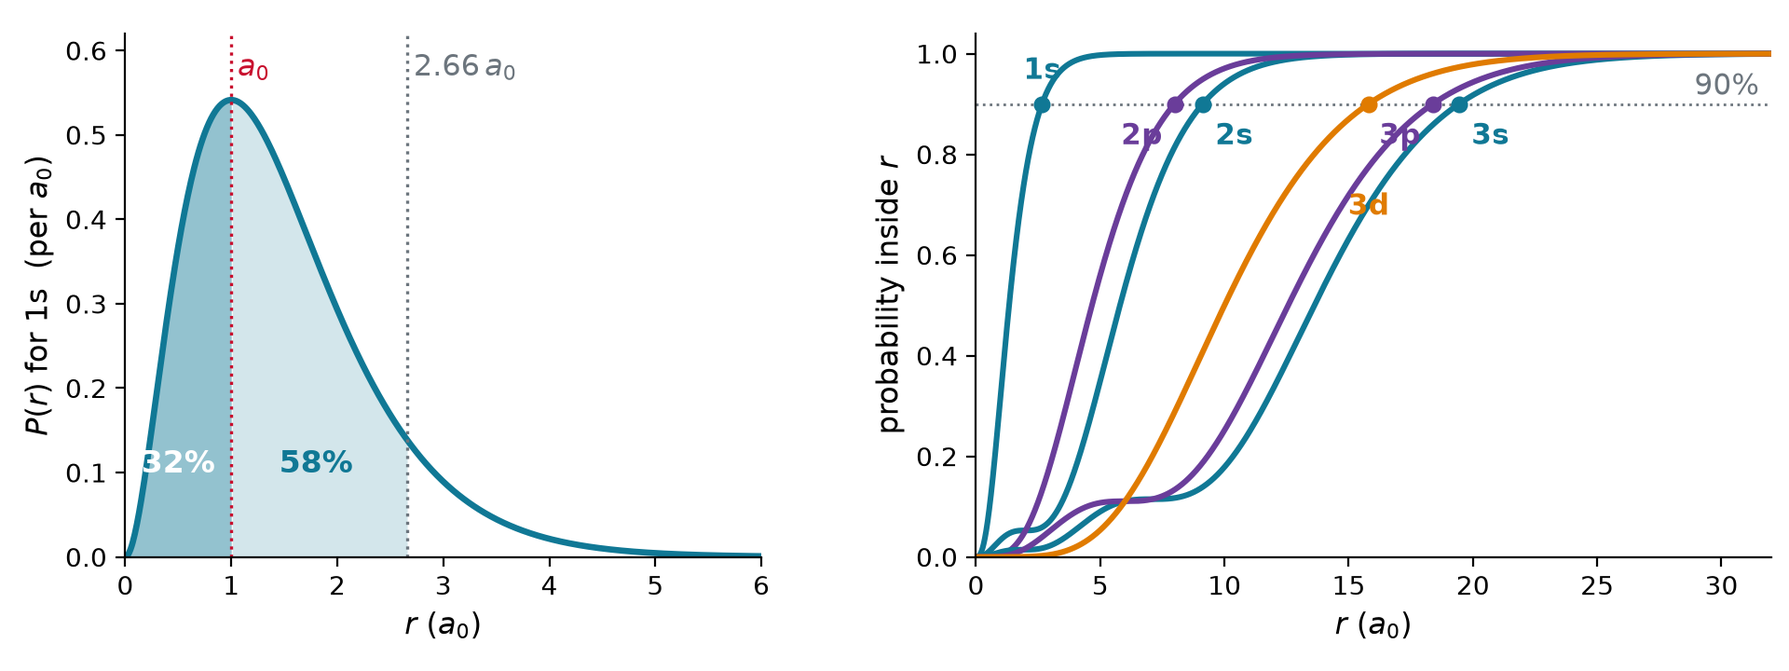
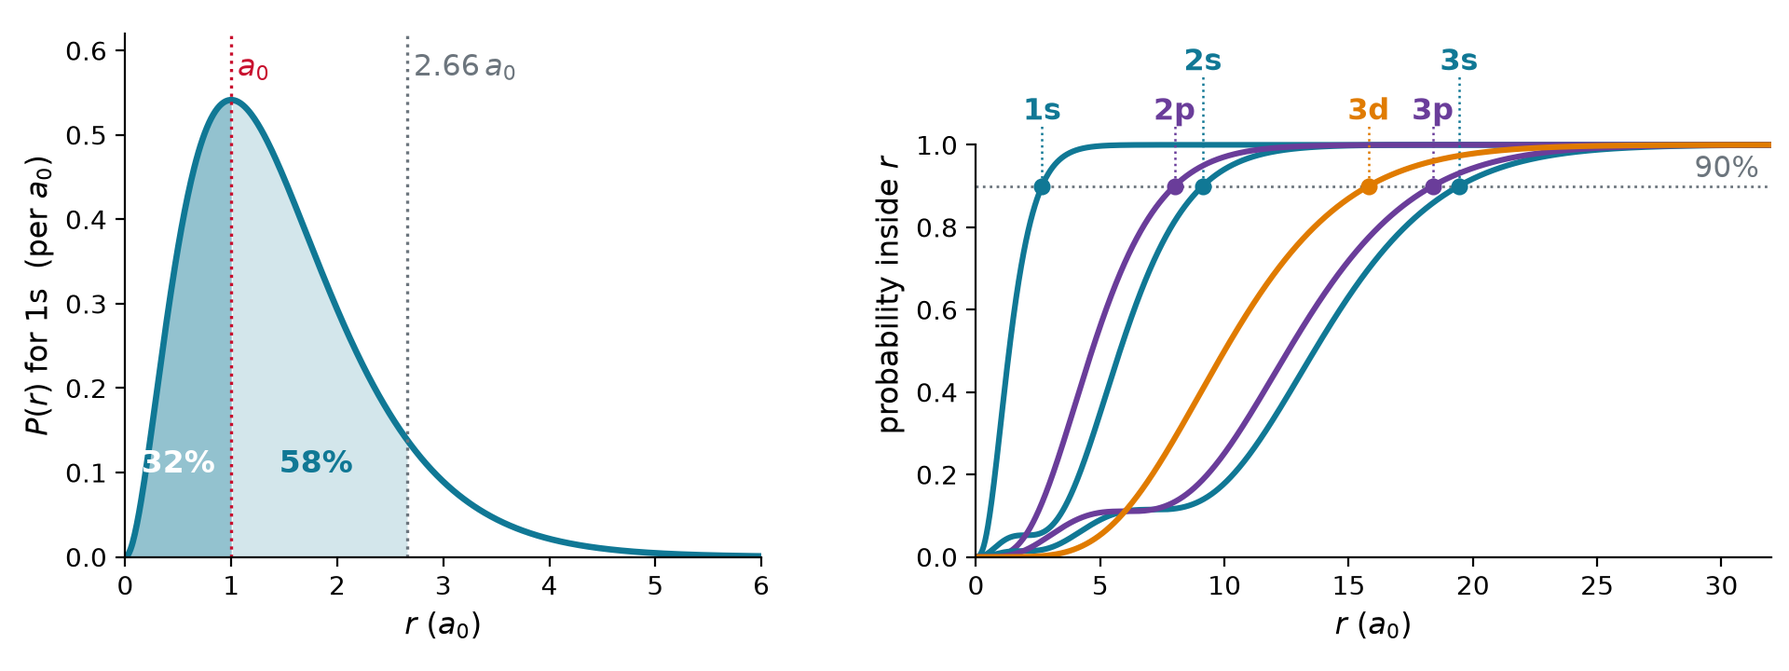
'updated'

diff --git a/scripts/make_ch05_animations.py b/scripts/make_ch05_animations.py
@@ -474,9 +474,66 @@ def shell_volume():
     return fig, None
 
 
-# ------------------------------------------------------------ the radial distributions P(r) = r^2 R^2 for n <= 3, one panel per shell (still)
+# ------------------------------------------------------------ the s states 1s, 2s, 3s on one axis: farther out and one more peak each step (still)
+@register
+def radial_s_series():
+    plt.rcParams.update({"axes.spines.top": False, "axes.spines.right": False})
+    R = {1: lambda p: 2 * np.exp(-p),
+         2: lambda p: (2 - p) * np.exp(-p / 2) / (2 * np.sqrt(2)),
+         3: lambda p: 2 * (27 - 18 * p + 2 * p**2) * np.exp(-p / 3) / (81 * np.sqrt(3))}
+    shades = {1: "#0a4a5c", 2: TEAL, 3: "#63b4c8"}                 # one family (s): three shades of teal
+    fig, ax = plt.subplots(figsize=(9.6, 3.4))
+    r = np.linspace(0, 26, 1300)
+    for n in (1, 2, 3):
+        P = r**2 * R[n](r)**2
+        ax.plot(r, P, color=shades[n], lw=2.6)
+        k = np.argmax(P)
+        ax.text(r[k], P[k] + 0.018, f"{n}s", fontsize=13, color=shades[n], weight="bold", ha="center", va="bottom")
+    ax.set_xlim(0, 26); ax.set_ylim(0, 0.6)
+    ax.set_xlabel(r"$r$ ($a_0$)", fontsize=11.5)
+    ax.set_ylabel(r"$P(r) = r^2R_{n0}^2$  (per $a_0$)", fontsize=11.5)
+    ax.tick_params(labelsize=10)
+    fig.subplots_adjust(left=0.08, right=0.99, top=0.96, bottom=0.18)
+    fig.savefig(f"{OUT}/radial_s_series.png", dpi=200)
+    print("wrote", f"{OUT}/radial_s_series.png")
+    return fig, None
+
+
+# ------------------------------------------------------------ same n, different l: the radial distributions of the n = 2 and n = 3 shells (still)
 @register
 def radial_distributions():
+    plt.rcParams.update({"axes.spines.top": False, "axes.spines.right": False})
+    R = {(2, 0): lambda p: (2 - p) * np.exp(-p / 2) / (2 * np.sqrt(2)),
+         (2, 1): lambda p: p * np.exp(-p / 2) / (2 * np.sqrt(6)),
+         (3, 0): lambda p: 2 * (27 - 18 * p + 2 * p**2) * np.exp(-p / 3) / (81 * np.sqrt(3)),
+         (3, 1): lambda p: 4 * (6 - p) * p * np.exp(-p / 3) / (81 * np.sqrt(6)),
+         (3, 2): lambda p: 4 * p**2 * np.exp(-p / 3) / (81 * np.sqrt(30))}
+    cols = {0: TEAL, 1: PURPLE, 2: ORANGE}
+    fig, axes = plt.subplots(1, 2, figsize=(9.6, 3.4), gridspec_kw={"wspace": 0.18, "width_ratios": [1, 1.3]})
+    for ax, n, xm in zip(axes, (2, 3), (16, 30)):
+        r = np.linspace(0, xm, 600)
+        for l in range(n):
+            ax.plot(r, r**2 * R[(n, l)](r)**2, color=cols[l], lw=2.4, label=f"{n}{'spd'[l]}")
+        ax.axvline(n * n, color=GRAY, lw=1.1, ls=":")
+        ax.text(n * n + 0.02 * xm, 0.22, f"${n * n}a_0$", fontsize=11, color=GRAY)
+        ax.set_xlim(0, xm); ax.set_ylim(0, 0.24)
+        ax.set_xlabel(r"$r$ ($a_0$)", fontsize=11.5)
+        ax.set_title(f"$n = {n}$", fontsize=13)
+        ax.tick_params(labelsize=10)
+        leg = ax.legend(loc="upper right", frameon=False, fontsize=12, handlelength=1.2, borderaxespad=0.2)
+        for t, h in zip(leg.get_texts(), leg.legend_handles):
+            t.set_color(h.get_color()); t.set_weight("bold")
+    axes[0].set_ylabel(r"$P(r) = r^2R_{nl}^2$  (per $a_0$)", fontsize=11.5)
+    axes[1].set_yticklabels([])
+    fig.subplots_adjust(left=0.08, right=0.99, top=0.88, bottom=0.18)
+    fig.savefig(f"{OUT}/radial_distributions.png", dpi=200)
+    print("wrote", f"{OUT}/radial_distributions.png")
+    return fig, None
+
+
+# ------------------------------------------------------------ count the peaks: P(r) for every state with n <= 3, radial nodes as red dots (still)
+@register
+def radial_nodes():
     plt.rcParams.update({"axes.spines.top": False, "axes.spines.right": False})
     R = {(1, 0): lambda p: 2 * np.exp(-p),
          (2, 0): lambda p: (2 - p) * np.exp(-p / 2) / (2 * np.sqrt(2)),
@@ -484,28 +541,27 @@ def radial_distributions():
          (3, 0): lambda p: 2 * (27 - 18 * p + 2 * p**2) * np.exp(-p / 3) / (81 * np.sqrt(3)),
          (3, 1): lambda p: 4 * (6 - p) * p * np.exp(-p / 3) / (81 * np.sqrt(6)),
          (3, 2): lambda p: 4 * p**2 * np.exp(-p / 3) / (81 * np.sqrt(30))}
+    nodes = {(1, 0): [], (2, 0): [2.0], (2, 1): [], (3, 0): [1.902, 7.098], (3, 1): [6.0], (3, 2): []}
     cols = {0: TEAL, 1: PURPLE, 2: ORANGE}
-    fig, axes = plt.subplots(1, 3, figsize=(9.6, 3.3), gridspec_kw={"wspace": 0.28, "width_ratios": [0.8, 1, 1.2]})
-    for ax, n, xm in zip(axes, (1, 2, 3), (6, 16, 30)):
+    fig, axes = plt.subplots(2, 3, figsize=(9.6, 4.3), gridspec_kw={"hspace": 0.55, "wspace": 0.12})
+    for ax, key in zip(axes.flat, [(1, 0), (2, 0), (2, 1), (3, 0), (3, 1), (3, 2)]):
+        n, l = key
+        xm = {1: 6, 2: 16, 3: 30}[n]
         r = np.linspace(0, xm, 600)
-        for l in range(n):
-            P = r**2 * R[(n, l)](r)**2
-            ax.plot(r, P, color=cols[l], lw=2.4, label=f"{n}{'spd'[l]}")
-        ax.axvline(n * n, color=GRAY, lw=1.1, ls=":")
-        ax.text(n * n + 0.02 * xm, 0.56, f"${n * n if n > 1 else ''}a_0$", fontsize=11, color=GRAY)
-        leg = ax.legend(loc="upper right", frameon=False, fontsize=12, handlelength=1.2, borderaxespad=0.2)
-        for t, h in zip(leg.get_texts(), leg.legend_handles):
-            t.set_color(h.get_color()); t.set_weight("bold")
-        ax.set_xlim(0, xm); ax.set_ylim(0, 0.6)
+        P = r**2 * R[key](r)**2
+        ax.plot(r, P, color=cols[l], lw=2.4)
+        ax.fill_between(r, P, color=cols[l], alpha=0.12, lw=0)
+        ax.plot(nodes[key], [0] * len(nodes[key]), "o", color=CARDINAL, ms=7.5, zorder=5, clip_on=False)
+        ax.set_xlim(0, xm); ax.set_ylim(0, 1.15 * P.max())
+        ax.set_yticks([]); ax.tick_params(labelsize=10)
+        ax.set_title(f"{n}{'spd'[l]}", fontsize=13.5, color=cols[l], weight="bold")
+    for ax in axes[1]:
         ax.set_xlabel(r"$r$ ($a_0$)", fontsize=11.5)
-        ax.set_title(f"$n = {n}$", fontsize=13)
-        ax.tick_params(labelsize=10)
-    axes[0].set_ylabel(r"$P(r) = r^2R_{nl}^2$  (per $a_0$)", fontsize=11.5)
-    for ax in axes[1:]:
-        ax.set_yticklabels([])
-    fig.subplots_adjust(left=0.08, right=0.99, top=0.88, bottom=0.18)
-    fig.savefig(f"{OUT}/radial_distributions.png", dpi=200)
-    print("wrote", f"{OUT}/radial_distributions.png")
+    for ax in axes[:, 0]:
+        ax.set_ylabel(r"$P(r)$", fontsize=11.5)
+    fig.subplots_adjust(left=0.05, right=0.99, top=0.92, bottom=0.13)
+    fig.savefig(f"{OUT}/radial_nodes.png", dpi=200)
+    print("wrote", f"{OUT}/radial_nodes.png")
     return fig, None
 
 
@@ -541,12 +597,13 @@ def probability_inside():
         bx.plot(rr, c, color=cols[l], lw=2.2, ls={1: "-", 2: "-", 3: "-"}[n])
         k = np.searchsorted(c, 0.9)
         bx.plot(rr[k], 0.9, "o", color=cols[l], ms=5.5, zorder=5)
-        dx_, dy_, ha_ = {(1, 0): (0.0, 0.95, "center"), (2, 1): (-0.5, 0.82, "right"), (2, 0): (0.5, 0.82, "left"),
-                         (3, 2): (0.0, 0.68, "center"), (3, 1): (-0.5, 0.82, "right"), (3, 0): (0.5, 0.82, "left")}[(n, l)]
-        bx.text(rr[k] + dx_, dy_, f"{n}{'spd'[l]}", fontsize=11, color=cols[l], weight="bold", ha=ha_)
+        yl = 1.2 if l == 0 and n > 1 else 1.08                      # labels above the curves, in two rows
+        bx.plot([rr[k], rr[k]], [0.92, yl - 0.03], color=cols[l], lw=0.9, ls=":")
+        bx.text(rr[k], yl, f"{n}{'spd'[l]}", fontsize=11.5, color=cols[l], weight="bold", ha="center", va="center")
     bx.axhline(0.9, color=GRAY, lw=1, ls=":")
     bx.text(31.5, 0.905, "90%", ha="right", va="bottom", fontsize=11, color=GRAY)
-    bx.set_xlim(0, 32); bx.set_ylim(0, 1.04)
+    bx.set_xlim(0, 32); bx.set_ylim(0, 1.27); bx.set_yticks([0, 0.2, 0.4, 0.6, 0.8, 1.0])
+    bx.spines["left"].set_bounds(0, 1.0)
     bx.set_xlabel(r"$r$ ($a_0$)", fontsize=11.5); bx.set_ylabel("probability inside $r$", fontsize=11.5)
     bx.tick_params(labelsize=10)
     fig.subplots_adjust(left=0.07, right=0.99, top=0.95, bottom=0.17)

diff --git a/ch05/02-atomic-orbitals.md b/ch05/02-atomic-orbitals.md
@@ -11,7 +11,7 @@ kernelspec:
 - An **atomic orbital** is one stationary state of a one-electron atom, $\psi_{nlm} = R_{nl}(r)\,Y_l^m(\theta, \phi)$, named by $n$ and the letter of $l$: 1s, 2p, 3d. [Lecture 5.1](01-hydrogenlike-atoms.md) solved for them. This lecture draws them, and learns to read the drawings.
 - "Where is the electron?" has three answers. $\lvert\psi\rvert^2\,dV$ is the probability of finding it in a small volume; the **radial distribution** $P(r) = r^2R_{nl}^2$ is the probability per unit length of finding it at distance $r$, at any angle (the $r^2$ is the area of the shell); $\lvert Y_l^m\rvert^2$ is the probability per unit solid angle of finding it in a direction. The 1s density is largest at the nucleus, but $P(r)$ peaks at $a_0$: the **most probable distance**. The average distance is $\tfrac{3}{2}a_0$, and 90% of the electron lies inside $2.66\,a_0$.
 - Sizes grow as $n^2a_0/Z$. For $l = n - 1$ the most probable distance is exactly Bohr's $n^2a_0/Z$; s states keep small inner lobes close to the nucleus, which is why 2s lies below 2p once there are other electrons ([Chapter 7](../ch07/02-multi-electron-atoms.md)).
-- The $Y_l^m$ with $m \neq 0$ are complex and their densities are rings around $z$. Because the $2l + 1$ states of one $n$ and $l$ have the same energy, any combination of them is again a stationary state, and the combinations $(Y_l^{-m} \mp Y_l^{m})/\sqrt{2}$ are **real orbitals** that point along axes: $p_x$, $p_y$, $p_z$ and the five $d$. They keep $E$ and $L^2$ but have no definite $L_z$.
+- The $Y_l^m$ with $m \neq 0$ are complex and their densities are rings around $z$. Because the $2l + 1$ states of one $n$ and $l$ have the same energy, any combination of them is again a stationary state, and the combinations $(Y_l^{-m} \mp Y_l^{m})/\sqrt{2}$ are **real orbitals** that point along axes: $p_x$, $p_y$, $p_z$ and the five $d$. They keep $E$ and $L^2$; $p_x$ has no definite $L_z$ but is the $m = 0$ state about the $x$ axis. Which set an atom is in depends on what picks a direction: a field along $z$ selects the $m$ states, a bond along $x$ selects $p_x$.
 - **Nodes:** $n - l - 1$ radial nodes (spheres) plus $l$ angular nodes (planes or cones), $n - 1$ in all. A **boundary surface** encloses 90% of the probability; it is what the textbook drawings show.
 
 :::
@@ -132,11 +132,96 @@ $$
 The average lies beyond the peak, as it does for every lopsided distribution. Three different lengths describe one state: the most probable distance $a_0$, the average $1.5\,a_0$, and the radius inside which 90% of the probability lies, $2.66\,a_0$ (solve $P(r < x) = 0.9$ numerically).
 :::
 
-#### Radial distributions for $n \leq 3$
+#### The s states: farther out, one more peak
+
+Fix $l = 0$ and raise $n$:
+
+```{code-cell} python
+:tags: [hide-input]
+# synced: radial_s_series
+import numpy as np
+import matplotlib.pyplot as plt
+from matplotlib.animation import FuncAnimation
+from IPython.display import HTML
+
+TEAL, CARDINAL, GRAY, PURPLE, ORANGE = "#107895", "#C8102E", "#6c757d", "#6a3d9a", "#e07b00"
+plt.rcParams.update({"axes.spines.top": False, "axes.spines.right": False})
+R = {1: lambda p: 2 * np.exp(-p),
+     2: lambda p: (2 - p) * np.exp(-p / 2) / (2 * np.sqrt(2)),
+     3: lambda p: 2 * (27 - 18 * p + 2 * p**2) * np.exp(-p / 3) / (81 * np.sqrt(3))}
+shades = {1: "#0a4a5c", 2: TEAL, 3: "#63b4c8"}                 # one family (s): three shades of teal
+fig, ax = plt.subplots(figsize=(9.6, 3.4))
+r = np.linspace(0, 26, 1300)
+for n in (1, 2, 3):
+    P = r**2 * R[n](r)**2
+    ax.plot(r, P, color=shades[n], lw=2.6)
+    k = np.argmax(P)
+    ax.text(r[k], P[k] + 0.018, f"{n}s", fontsize=13, color=shades[n], weight="bold", ha="center", va="bottom")
+ax.set_xlim(0, 26); ax.set_ylim(0, 0.6)
+ax.set_xlabel(r"$r$ ($a_0$)", fontsize=11.5)
+ax.set_ylabel(r"$P(r) = r^2R_{n0}^2$  (per $a_0$)", fontsize=11.5)
+ax.tick_params(labelsize=10)
+fig.subplots_adjust(left=0.08, right=0.99, top=0.96, bottom=0.18)
+plt.show()
+```
+
+Fig. The radial distributions of 1s, 2s and 3s on one axis.
+
+- **Farther out.** Each step in $n$ pushes the outer peak out: the maxima sit at $1$, $5.2$ and $13\,a_0$, close to $n^2a_0$.
+- **One more peak.** 1s has one maximum, 2s two, 3s three. Between the peaks $P(r) = 0$: a radial node of $R_{nl}$, as in Lecture 5.1.
+- **The outermost peak carries most of the probability.** The inner peaks are small, but they lie close to the nucleus.
+
+#### Same $n$, different $l$
+
+Now fix $n$ and raise $l$:
 
 ```{code-cell} python
 :tags: [hide-input]
 # synced: radial_distributions
+import numpy as np
+import matplotlib.pyplot as plt
+from matplotlib.animation import FuncAnimation
+from IPython.display import HTML
+
+TEAL, CARDINAL, GRAY, PURPLE, ORANGE = "#107895", "#C8102E", "#6c757d", "#6a3d9a", "#e07b00"
+plt.rcParams.update({"axes.spines.top": False, "axes.spines.right": False})
+R = {(2, 0): lambda p: (2 - p) * np.exp(-p / 2) / (2 * np.sqrt(2)),
+     (2, 1): lambda p: p * np.exp(-p / 2) / (2 * np.sqrt(6)),
+     (3, 0): lambda p: 2 * (27 - 18 * p + 2 * p**2) * np.exp(-p / 3) / (81 * np.sqrt(3)),
+     (3, 1): lambda p: 4 * (6 - p) * p * np.exp(-p / 3) / (81 * np.sqrt(6)),
+     (3, 2): lambda p: 4 * p**2 * np.exp(-p / 3) / (81 * np.sqrt(30))}
+cols = {0: TEAL, 1: PURPLE, 2: ORANGE}
+fig, axes = plt.subplots(1, 2, figsize=(9.6, 3.4), gridspec_kw={"wspace": 0.18, "width_ratios": [1, 1.3]})
+for ax, n, xm in zip(axes, (2, 3), (16, 30)):
+    r = np.linspace(0, xm, 600)
+    for l in range(n):
+        ax.plot(r, r**2 * R[(n, l)](r)**2, color=cols[l], lw=2.4, label=f"{n}{'spd'[l]}")
+    ax.axvline(n * n, color=GRAY, lw=1.1, ls=":")
+    ax.text(n * n + 0.02 * xm, 0.22, f"${n * n}a_0$", fontsize=11, color=GRAY)
+    ax.set_xlim(0, xm); ax.set_ylim(0, 0.24)
+    ax.set_xlabel(r"$r$ ($a_0$)", fontsize=11.5)
+    ax.set_title(f"$n = {n}$", fontsize=13)
+    ax.tick_params(labelsize=10)
+    leg = ax.legend(loc="upper right", frameon=False, fontsize=12, handlelength=1.2, borderaxespad=0.2)
+    for t, h in zip(leg.get_texts(), leg.legend_handles):
+        t.set_color(h.get_color()); t.set_weight("bold")
+axes[0].set_ylabel(r"$P(r) = r^2R_{nl}^2$  (per $a_0$)", fontsize=11.5)
+axes[1].set_yticklabels([])
+fig.subplots_adjust(left=0.08, right=0.99, top=0.88, bottom=0.18)
+plt.show()
+```
+
+Fig. The radial distributions of the $n = 2$ and $n = 3$ shells. The dotted line marks Bohr's radius $n^2a_0$.
+
+- **Raising $l$ removes the inner peaks.** At $n = 3$: 3s has three maxima, 3p two, 3d one.
+- **$l = n - 1$ is a single peak at Bohr's radius.** $P \propto r^{2n}e^{-2Zr/na_0}$ peaks at $r = n^2a_0/Z$: $4a_0$ for 2p, $9a_0$ for 3d (Problem 1).
+- **The s state penetrates.** Its innermost peak lies closest to the nucleus. In hydrogen that changes no energy, since every state of one $n$ shares $E_n$. In every other atom the inner electrons screen the nucleus, a penetrating 2s electron feels more nuclear charge than 2p, and 2s drops below 2p: the aufbau order of [Chapter 7](../ch07/02-multi-electron-atoms.md).
+
+#### Count the peaks: the radial nodes
+
+```{code-cell} python
+:tags: [hide-input]
+# synced: radial_nodes
 import numpy as np
 import matplotlib.pyplot as plt
 from matplotlib.animation import FuncAnimation
@@ -150,35 +235,39 @@ R = {(1, 0): lambda p: 2 * np.exp(-p),
      (3, 0): lambda p: 2 * (27 - 18 * p + 2 * p**2) * np.exp(-p / 3) / (81 * np.sqrt(3)),
      (3, 1): lambda p: 4 * (6 - p) * p * np.exp(-p / 3) / (81 * np.sqrt(6)),
      (3, 2): lambda p: 4 * p**2 * np.exp(-p / 3) / (81 * np.sqrt(30))}
+nodes = {(1, 0): [], (2, 0): [2.0], (2, 1): [], (3, 0): [1.902, 7.098], (3, 1): [6.0], (3, 2): []}
 cols = {0: TEAL, 1: PURPLE, 2: ORANGE}
-fig, axes = plt.subplots(1, 3, figsize=(9.6, 3.3), gridspec_kw={"wspace": 0.28, "width_ratios": [0.8, 1, 1.2]})
-for ax, n, xm in zip(axes, (1, 2, 3), (6, 16, 30)):
+fig, axes = plt.subplots(2, 3, figsize=(9.6, 4.3), gridspec_kw={"hspace": 0.55, "wspace": 0.12})
+for ax, key in zip(axes.flat, [(1, 0), (2, 0), (2, 1), (3, 0), (3, 1), (3, 2)]):
+    n, l = key
+    xm = {1: 6, 2: 16, 3: 30}[n]
     r = np.linspace(0, xm, 600)
-    for l in range(n):
-        P = r**2 * R[(n, l)](r)**2
-        ax.plot(r, P, color=cols[l], lw=2.4, label=f"{n}{'spd'[l]}")
-    ax.axvline(n * n, color=GRAY, lw=1.1, ls=":")
-    ax.text(n * n + 0.02 * xm, 0.56, f"${n * n if n > 1 else ''}a_0$", fontsize=11, color=GRAY)
-    leg = ax.legend(loc="upper right", frameon=False, fontsize=12, handlelength=1.2, borderaxespad=0.2)
-    for t, h in zip(leg.get_texts(), leg.legend_handles):
-        t.set_color(h.get_color()); t.set_weight("bold")
-    ax.set_xlim(0, xm); ax.set_ylim(0, 0.6)
+    P = r**2 * R[key](r)**2
+    ax.plot(r, P, color=cols[l], lw=2.4)
+    ax.fill_between(r, P, color=cols[l], alpha=0.12, lw=0)
+    ax.plot(nodes[key], [0] * len(nodes[key]), "o", color=CARDINAL, ms=7.5, zorder=5, clip_on=False)
+    ax.set_xlim(0, xm); ax.set_ylim(0, 1.15 * P.max())
+    ax.set_yticks([]); ax.tick_params(labelsize=10)
+    ax.set_title(f"{n}{'spd'[l]}", fontsize=13.5, color=cols[l], weight="bold")
+for ax in axes[1]:
     ax.set_xlabel(r"$r$ ($a_0$)", fontsize=11.5)
-    ax.set_title(f"$n = {n}$", fontsize=13)
-    ax.tick_params(labelsize=10)
-axes[0].set_ylabel(r"$P(r) = r^2R_{nl}^2$  (per $a_0$)", fontsize=11.5)
-for ax in axes[1:]:
-    ax.set_yticklabels([])
-fig.subplots_adjust(left=0.08, right=0.99, top=0.88, bottom=0.18)
+for ax in axes[:, 0]:
+    ax.set_ylabel(r"$P(r)$", fontsize=11.5)
+fig.subplots_adjust(left=0.05, right=0.99, top=0.92, bottom=0.13)
 plt.show()
 ```
 
-Fig. The radial distributions $P(r) = r^2R_{nl}^2$ for $n = 1$, 2 and 3, each shell on its own range of $r$. The dotted line marks $n^2a_0$, Bohr's radius for orbit $n$.
+Fig. $P(r)$ for every state with $n \leq 3$. A red dot marks each radial node, a distance at which $P(r) = 0$.
 
-- **One hump for $l = n - 1$, at Bohr's radius.** For 1s, 2p and 3d the polynomial is a single power, $P \propto r^{2n}e^{-2Zr/na_0}$, and $dP/dr = 0$ gives $r = n^2a_0/Z$: the radii of Bohr's orbits, $a_0$, $4a_0$, $9a_0$, reappear as most probable distances (Problem 1).
-- **More humps for smaller $l$.** $R_{nl}$ has $n - l - 1$ nodes, so $P(r)$ has $n - l$ humps, and the outermost always carries most of the probability. The inner humps of 2s and 3s sit close to the nucleus: an s electron **penetrates** to small $r$ where a p or d electron of the same $n$ does not. In hydrogen that changes nothing, since all states of one $n$ share one energy. In every other atom the inner electrons screen the nucleus, penetration lets 2s feel more of the nuclear charge than 2p, and 2s drops below 2p: the origin of the aufbau order of [Chapter 7](../ch07/02-multi-electron-atoms.md).
-- **The average distance** is the formula of the radial averages dropdown of Lecture 5.1, $\langle r\rangle_{nl} = \dfrac{n^2a_0}{Z}\left[1 + \dfrac{1}{2}\left(1 - \dfrac{l(l+1)}{n^2}\right)\right]$: $1.5\,a_0$ for 1s, $6\,a_0$ for 2s, $5\,a_0$ for 2p. For a given $n$ the s state reaches out farthest on average, even though its outer hump peaks beyond the p hump by only a little.
-- **Everything scales.** $P(r)$ for a nucleus $Ze$ is the hydrogen curve squeezed by $1/Z$: every length in the table below divides by $Z$.
+$$
+\text{peaks of } P(r) = n - l, \qquad\qquad \text{radial nodes} = n - l - 1
+$$
+
+- A radial node is a sphere on which the electron is never found: $R_{nl}$ changes sign there and $P(r)$ touches zero.
+- 1s, 2p and 3d have none; 2s and 3p have one; 3s has two. The polynomial in $R_{nl}$ has degree $n - l - 1$, and each of its roots is a node.
+- The $l$ angular nodes of $Y_l^m$ complete the count to $n - 1$ (the section on nodes below).
+
+The average distance has a closed form (the radial averages dropdown of Lecture 5.1), $\langle r\rangle_{nl} = \dfrac{n^2a_0}{Z}\left[1 + \dfrac{1}{2}\left(1 - \dfrac{l(l+1)}{n^2}\right)\right]$: $1.5\,a_0$ for 1s, $6\,a_0$ for 2s, $5\,a_0$ for 2p. For a nucleus $Ze$ every curve is squeezed by $1/Z$, and every length below divides by $Z$.
 
 Three lengths for the six states, computed by numpy from the radial functions of the last lecture (all in $a_0$, $Z = 1$):
 
@@ -207,7 +296,7 @@ for name, Rn in R.items():
 | 3p | $12\,a_0$ | $12.5\,a_0$ | $18.39\,a_0$ |
 | 3d | $9\,a_0$ | $10.5\,a_0$ | $15.80\,a_0$ |
 
-Pick a state, then drag the slider: the darker area is the probability of finding the electron inside the chosen radius. Find the radius that holds half of the 1s electron, and watch how far out 90% of a 3s electron reaches.
+Pick an orbital, then drag the slider: the darker area is the probability of finding the electron inside the chosen radius. Find the radius that holds half of the 1s electron, and watch how far out 90% of a 3s electron reaches.
 
 ```{anywidget} ../widgets/radial_explorer.mjs
 {"probe": true}
@@ -255,12 +344,13 @@ for (n, l), f in R.items():
     bx.plot(rr, c, color=cols[l], lw=2.2, ls={1: "-", 2: "-", 3: "-"}[n])
     k = np.searchsorted(c, 0.9)
     bx.plot(rr[k], 0.9, "o", color=cols[l], ms=5.5, zorder=5)
-    dx_, dy_, ha_ = {(1, 0): (0.0, 0.95, "center"), (2, 1): (-0.5, 0.82, "right"), (2, 0): (0.5, 0.82, "left"),
-                     (3, 2): (0.0, 0.68, "center"), (3, 1): (-0.5, 0.82, "right"), (3, 0): (0.5, 0.82, "left")}[(n, l)]
-    bx.text(rr[k] + dx_, dy_, f"{n}{'spd'[l]}", fontsize=11, color=cols[l], weight="bold", ha=ha_)
+    yl = 1.2 if l == 0 and n > 1 else 1.08                      # labels above the curves, in two rows
+    bx.plot([rr[k], rr[k]], [0.92, yl - 0.03], color=cols[l], lw=0.9, ls=":")
+    bx.text(rr[k], yl, f"{n}{'spd'[l]}", fontsize=11.5, color=cols[l], weight="bold", ha="center", va="center")
 bx.axhline(0.9, color=GRAY, lw=1, ls=":")
 bx.text(31.5, 0.905, "90%", ha="right", va="bottom", fontsize=11, color=GRAY)
-bx.set_xlim(0, 32); bx.set_ylim(0, 1.04)
+bx.set_xlim(0, 32); bx.set_ylim(0, 1.27); bx.set_yticks([0, 0.2, 0.4, 0.6, 0.8, 1.0])
+bx.spines["left"].set_bounds(0, 1.0)
 bx.set_xlabel(r"$r$ ($a_0$)", fontsize=11.5); bx.set_ylabel("probability inside $r$", fontsize=11.5)
 bx.tick_params(labelsize=10)
 fig.subplots_adjust(left=0.07, right=0.99, top=0.95, bottom=0.17)
@@ -275,15 +365,17 @@ Fig. Left: the 1s radial distribution, with 32% of the probability inside $a_0$ 
 
 ### The shape: the angular part
 
-#### The $L_z$ eigenstates are rings
+#### The $m$ states are symmetric about $z$. But which $z$?
 
-The angular factor of $\psi_{nlm}$ is the spherical harmonic $Y_l^m$ of Lecture 4.4, and its density $\lvert Y_l^m\rvert^2$ does not depend on $\phi$, because $Y_l^m \propto e^{im\phi}$ and $\lvert e^{im\phi}\rvert = 1$. So every state with a definite $L_z$ is symmetric about the $z$ axis. For $l = 1$:
+The angular factor of $\psi_{nlm}$ is the spherical harmonic $Y_l^m$ of Lecture 4.4, and its density $\lvert Y_l^m\rvert^2$ does not depend on $\phi$, because $Y_l^m \propto e^{im\phi}$ and $\lvert e^{im\phi}\rvert = 1$. So a state with a definite $m$ is symmetric about the axis it was quantized along. For $l = 1$:
 
 $$
 \lvert Y_1^{0}\rvert^2 = \frac{3}{4\pi}\cos^2\theta \quad\text{(a dumbbell along } z\text{)}, \qquad \lvert Y_1^{\pm1}\rvert^2 = \frac{3}{8\pi}\sin^2\theta \quad\text{(a ring around } z\text{)}
 $$
 
-The $m = +1$ and $m = -1$ states have the same density, a ring in the $xy$ plane; they differ only in the sense in which their phase runs around $z$. These are the states a magnetic field along $z$ singles out ([Spin](03-spin.md)). But chemists rarely draw them. A molecule has no $z$ axis built in; it has bonds along definite directions, and the orbital pictures chemists use point along axes. Those pictures are the **real orbitals**, and they come from a simple freedom.
+The $m = +1$ and $m = -1$ states have the same density, a ring in the $xy$ plane; they differ only in the sense in which their phase runs around $z$.
+
+But which axis is $z$? For an isolated atom nothing singles out a direction. The $z$ axis is the one we chose to quantize along, and the choice becomes physical only when something picks it: a magnetic field along $z$ separates the three $m$ states ([Spin](03-spin.md)). Quantize along $x$ instead and the $m_x = 0$ state is $\sqrt{3/4\pi}\,x/r$, the dumbbell function with $x$ in place of $z$. That function is $p_x$. So the **real orbitals** of the next sections are not an arbitrary mixture: $p_x$, $p_y$ and $p_z$ are the $m = 0$ states for the $x$, $y$ and $z$ axes, one shape pointed three ways, and a molecule with a bond along $x$ selects $p_x$ exactly as a field along $z$ selects the $m$ states. Both sets describe the same level. The freedom to pass from one to the other comes from degeneracy.
 
 #### A degenerate level is a space: any combination is again a stationary state
 
@@ -312,7 +404,7 @@ $$
 
 - Multiplied by $R_{n1}(r)$ they are the orbitals $np_x$, $np_y$, $np_z$: same $n$, same $l = 1$, same energy $E_n$, same $L^2 = 2\hbar^2$
 - They are real, normalized and orthogonal, and each is the same shape pointed along a different axis: $x/r$, $y/r$, $z/r$
-- $p_x$ and $p_y$ have no definite $L_z$: a measurement of $L_z$ on $p_x$ gives $+\hbar$ or $-\hbar$, each half the time
+- $p_x$ and $p_y$ have no definite $L_z$: a measurement of $L_z$ on $p_x$ gives $+\hbar$ or $-\hbar$, each half the time. But $p_x$ has a definite $L_x = 0$ (and $p_y$ a definite $L_y = 0$): each real $p$ orbital is the $m = 0$ state about its own axis
 :::
 
 :::{note} **Example: build $p_x$**
@@ -370,6 +462,7 @@ Fig. Top: the angular densities $\lvert Y_1^m\rvert^2$ of the three $L_z$ eigens
 - The two rings become two dumbbells. Nothing was added or lost: $p_x$ and $p_y$ span the same two-dimensional space as $Y_1^{+1}$ and $Y_1^{-1}$.
 - Each real $p$ orbital has one **nodal plane**, where $x$, $y$ or $z$ is zero, and changes sign across it. The sign is not visible in the density, but it matters whenever two orbitals overlap: bonding in [Chapter 8](../ch08/01-born-oppenheimer-approximation.md) is built on it.
 - These surfaces show the angular part only. They say nothing about size; the radial factor $R_{n1}$ does that, and 2p and 3p have the same three shapes.
+- Add the three densities of either row and the direction drops out: $\lvert p_x\rvert^2 + \lvert p_y\rvert^2 + \lvert p_z\rvert^2 = \frac{3}{4\pi}\,\frac{x^2 + y^2 + z^2}{r^2} = \frac{3}{4\pi}$, and $\sum_m\lvert Y_1^m\rvert^2$ gives the same constant. A filled $p$ shell is spherical whichever set is used (Unsöld's theorem), which is why a closed-shell atom has no preferred direction.
 
 #### Running and standing waves
 
@@ -624,7 +717,7 @@ $$
 which is the general formula $\langle r\rangle_{nl}$ with $l = n - 1$. For 1s: $r_{\mathrm{mp}} = a_0$, $\langle r\rangle = 1.5\,a_0$; for 3d: $9a_0$ and $10.5\,a_0$. The most probable distance is Bohr's radius exactly, for every $n$; the average is always a little larger because the distribution has a longer tail outward than inward.
 :::
 
-#### Problem 2: The two humps of 2s
+#### Problem 2: The two peaks of 2s
 
 With $r$ in $a_0$, the 2s radial distribution is $P(r) = \tfrac{1}{8}r^2(2 - r)^2e^{-r}$. (a) Find the radial node and the two maxima of $P(r)$ (one is the root of a quadratic). (b) By numerical integration, find the fraction of the probability inside the node. (c) Sketch $P(r)$ for 2s and 2p on one axis and explain, in one sentence, why a 2s electron would lie lower than a 2p electron in an atom whose inner electrons screen the nucleus.
 
